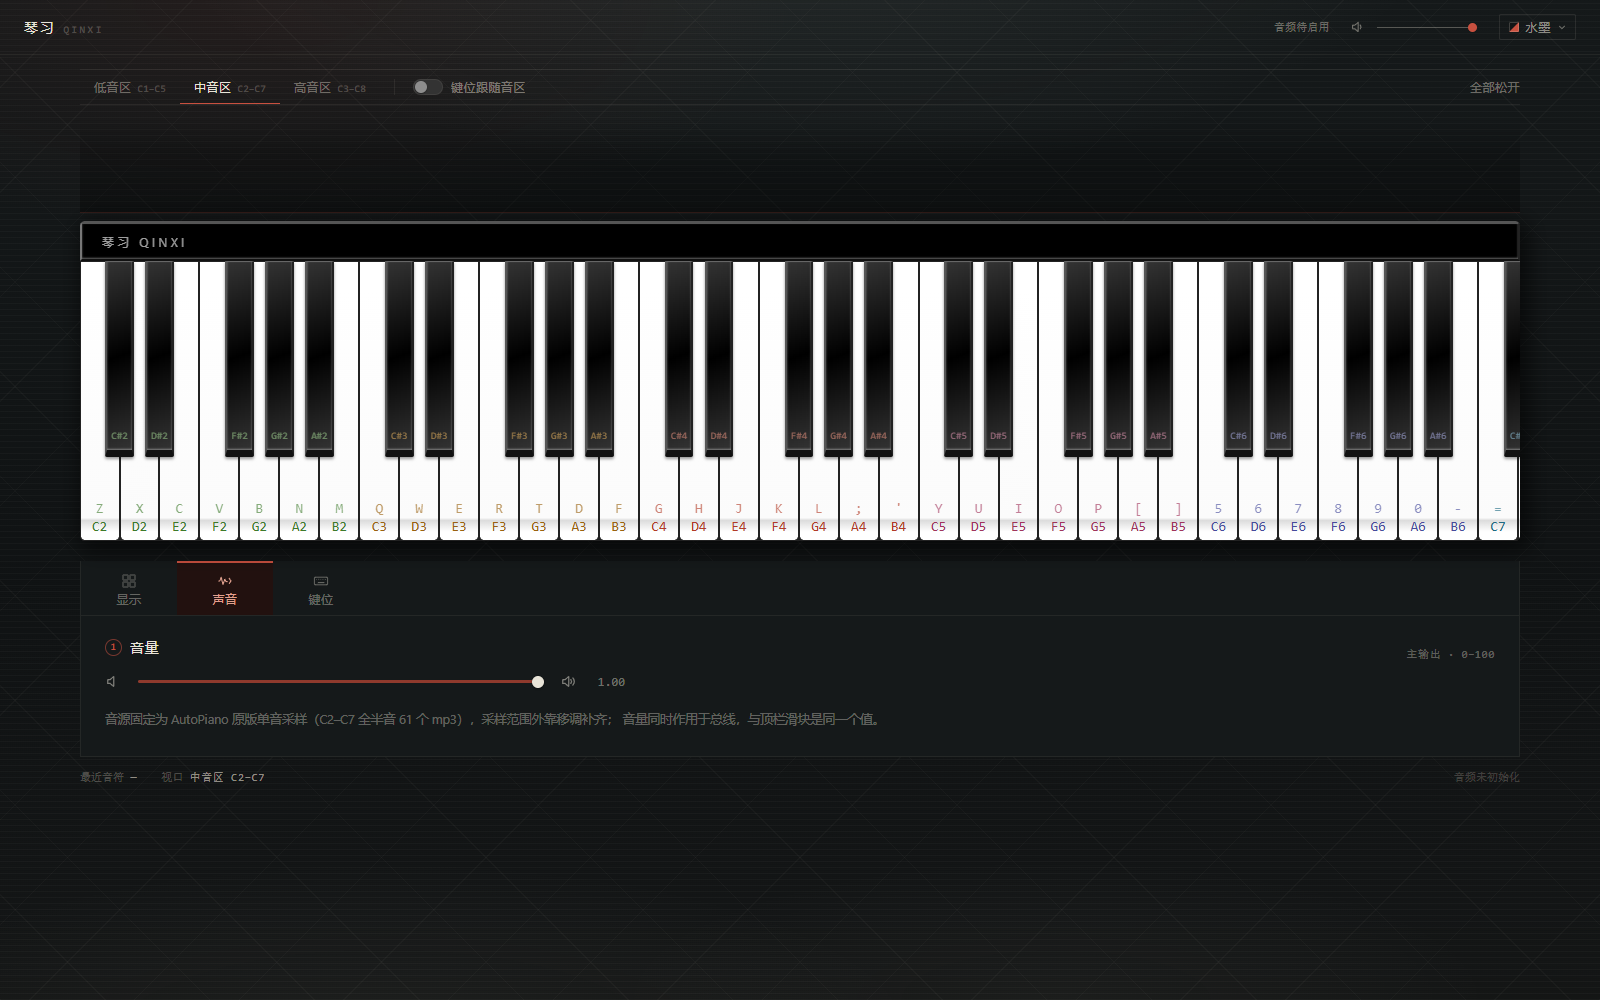
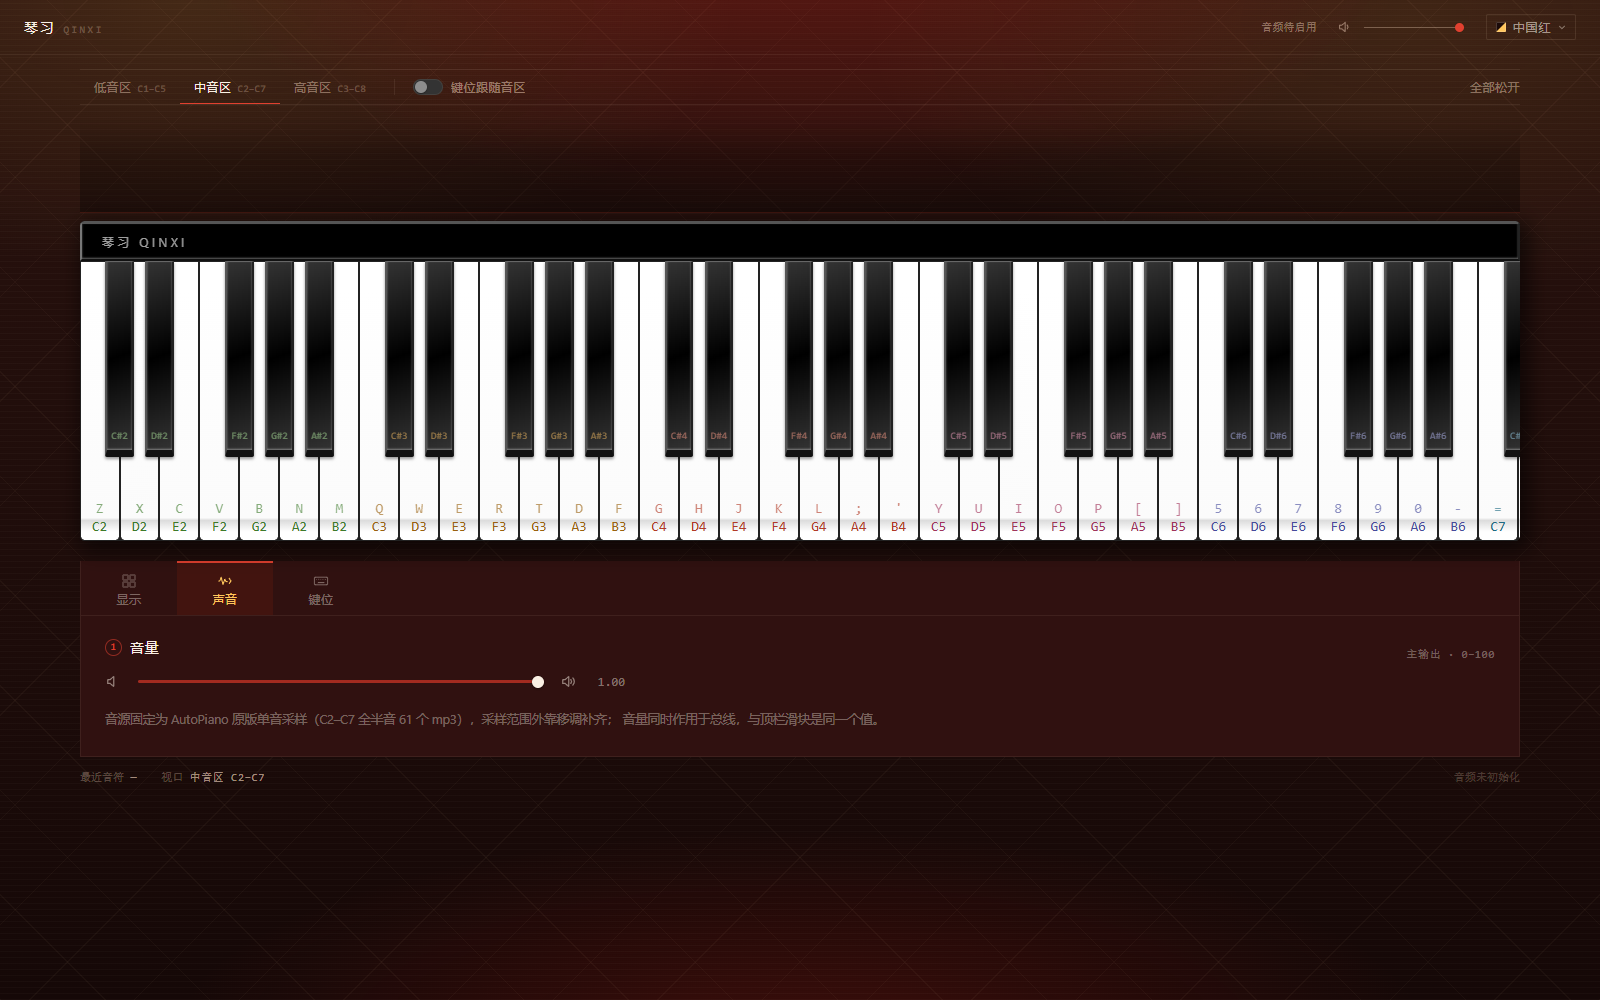
feat: 中国风改为红金喜庆（ink → china）
- 原名「水墨」的墨底朱砂不够喜庆，按反馈改成深红底 + 金饰：
  底色 #220c0a、强调红 #e0402f、选中文字金 #ffc65c
- 背景层次：顶部红晕 + 左右金雾 + 45° 金线窗棂 + 宣纸纤维 + 底部灯影
- 主题 id 改为 china、名称「中国红」、latin VERMILION，菜单与 README 同步
- 旧 id `ink` 不再存在，读到会安静回落到默认主题（已实测）

diff --git a/src/theme/themes.ts b/src/theme/themes.ts
@@ -155,35 +155,35 @@ export const THEMES: readonly Theme[] = [
     },
   },
   {
-    id: 'ink',
-    name: '水墨',
-    latin: 'INK',
-    hint: '墨底 · 朱砂宣纸纹',
-    swatch: ['#121516', '#c8503f'],
+    id: 'china',
+    name: '中国红',
+    latin: 'VERMILION',
+    hint: '红底金饰 · 窗棂与灯影',
+    swatch: ['#1b0b0a', '#ffc65c'],
     tokens: {
-      bg: '#121516',
-      bgDeep: '#0b0d0e',
-      surface: '#15191a',
-      surface2: '#1a1f20',
-      surfaceHover: '#1f2526',
-      surfaceDim: '#111415',
-      surfaceActive: '#2a1512',
-      surfaceTab: '#22110f',
-      inkRgb: '232, 228, 216',
-      wRgb: '226, 220, 205',
-      accent: '#c8503f',
-      accentRgb: '200, 80, 63',
-      accentStrong: '#e0a08e',
-      accentDim: '#8f3a2d',
-      danger: '#7a2a1f',
-      dangerRgb: '214, 104, 74',
-      dangerStrong: '#e9a892',
+      bg: '#220c0a',
+      bgDeep: '#160806',
+      surface: '#301110',
+      surface2: '#3a1512',
+      surfaceHover: '#471a16',
+      surfaceDim: '#280d0c',
+      surfaceActive: '#521714',
+      surfaceTab: '#42140f',
+      inkRgb: '250, 240, 228',
+      wRgb: '255, 224, 200',
+      accent: '#e0402f',
+      accentRgb: '224, 64, 47',
+      accentStrong: '#ffc65c',
+      accentDim: '#a32b20',
+      danger: '#7a1f14',
+      dangerRgb: '255, 138, 110',
+      dangerStrong: '#ffb9a2',
       backdrop:
-        'radial-gradient(1100px 520px at 50% -14%, rgba(214, 228, 220, 0.1), rgba(214, 228, 220, 0) 62%), radial-gradient(780px 340px at 16% 0%, rgba(200, 80, 63, 0.08), rgba(200, 80, 63, 0) 70%), repeating-linear-gradient(45deg, rgba(226, 220, 205, 0.032) 0 1px, rgba(226, 220, 205, 0) 1px 74px), repeating-linear-gradient(-45deg, rgba(226, 220, 205, 0.032) 0 1px, rgba(226, 220, 205, 0) 1px 74px), repeating-linear-gradient(0deg, rgba(226, 220, 205, 0.03) 0 1px, rgba(226, 220, 205, 0) 1px 6px), radial-gradient(780px 260px at 24% 104%, rgba(226, 220, 205, 0.05), rgba(226, 220, 205, 0) 70%), radial-gradient(620px 200px at 66% 100%, rgba(226, 220, 205, 0.04), rgba(226, 220, 205, 0) 72%), linear-gradient(180deg, rgba(21, 25, 26, 0) 56%, rgba(226, 220, 205, 0.035) 100%), linear-gradient(180deg, #15191a, #0c0e0f)',
-      glow: 'none',
-      vizTopRgb: '246, 226, 206',
-      vizMidRgb: '200, 104, 82',
-      vizBottomRgb: '86, 40, 32',
+        'radial-gradient(1000px 520px at 50% -12%, rgba(214, 40, 30, 0.36), rgba(214, 40, 30, 0) 64%), radial-gradient(760px 380px at 12% 0%, rgba(230, 179, 74, 0.14), rgba(230, 179, 74, 0) 72%), radial-gradient(760px 380px at 88% 2%, rgba(230, 179, 74, 0.12), rgba(230, 179, 74, 0) 72%), repeating-linear-gradient(45deg, rgba(255, 214, 160, 0.035) 0 1px, rgba(255, 214, 160, 0) 1px 74px), repeating-linear-gradient(-45deg, rgba(255, 214, 160, 0.035) 0 1px, rgba(255, 214, 160, 0) 1px 74px), repeating-linear-gradient(0deg, rgba(255, 224, 200, 0.022) 0 1px, rgba(255, 224, 200, 0) 1px 6px), radial-gradient(900px 300px at 50% 104%, rgba(200, 32, 22, 0.22), rgba(200, 32, 22, 0) 70%), linear-gradient(180deg, #2a120e, #150807)',
+      glow: '0 0 14px rgba(224, 64, 47, 0.38)',
+      vizTopRgb: '255, 226, 160',
+      vizMidRgb: '232, 92, 62',
+      vizBottomRgb: '110, 20, 16',
     },
   },
 ];

diff --git a/tests/themes.test.ts b/tests/themes.test.ts
@@ -138,19 +138,19 @@ describe('主题应用与持久化', () => {
 
   it('保存后能读回；存了不认识的 id 则回落默认', () => {
     vi.stubGlobal('localStorage', fakeStorage());
-    saveThemeId('ink');
-    expect(loadThemeId()).toBe('ink');
+    saveThemeId('china');
+    expect(loadThemeId()).toBe('china');
     localStorage.setItem(THEME_STORAGE_KEY, 'nope');
     expect(loadThemeId()).toBe(DEFAULT_THEME_ID);
   });
 
   it('setTheme 切换单例、落盘并生效；同名重复调用是空操作', () => {
     vi.stubGlobal('localStorage', fakeStorage());
-    setTheme('ink');
-    expect(themeId.value).toBe('ink');
-    expect(localStorage.getItem(THEME_STORAGE_KEY)).toBe('ink');
-    expect(() => setTheme('ink')).not.toThrow();
+    setTheme('china');
+    expect(themeId.value).toBe('china');
+    expect(localStorage.getItem(THEME_STORAGE_KEY)).toBe('china');
+    expect(() => setTheme('china')).not.toThrow();
     setTheme('not-a-theme');
-    expect(themeId.value).toBe('ink');
+    expect(themeId.value).toBe('china');
   });
 });

diff --git a/README.md b/README.md
@@ -10,7 +10,7 @@
 - 深色界面，尺寸/配色严格对齐 AutoPiano：黑漆顶盖、`.wkey` / `.bkey` 的渐变色与边框均取自其源码
 - 钢琴上方是**音符频谱**：按下即跳出柱子（含泛音），松手按指数衰减
 - 钢琴下方是**三页签控制台**：显示（键面标注）、声音（音量）、键位（C 大调布局 + 自定义 / 空置 + 映射图）
-- 三套**外观主题**（舞台 / 赛博 / 水墨），右上角下拉切换并记住选择；只换背景与外壳，琴体不变
+- 三套**外观主题**（舞台 / 赛博 / 中国红），右上角下拉切换并记住选择；只换背景与外壳，琴体不变
 
 > 参考项目：[AutoPiano 自由钢琴](https://www.autopiano.cn/)（[Wscats/piano](https://github.com/Wscats/piano)）。
 > 本仓库仅参考其 **CSS 钢琴布局思路** 与 **社区键盘谱的键位映射约定**，代码用 Vue 3 + TypeScript 全部重写，
@@ -126,7 +126,7 @@ docs/screenshots/  界面截图（PR 用）
 | --- | --- | --- | --- |
 | 舞台 `stage` | `#1a1a1a` | 暖木 `#cfa46a` | 顶部一束暖光（默认，与 AutoPiano 原站一致） |
 | 赛博 `cyber` | `#06070d` | 霓虹青 `#38e8ff` | 46px 网格 + 3px 扫描线 + 青/品红/紫三处光斑 |
-| 水墨 `ink` | `#121516` | 朱砂 `#c8503f` | 45° 菱格窗棂 + 6px 宣纸纤维 + 底部薄雾与远山 |
+| 中国红 `china` | `#220c0a` | 红 `#e0402f` + 金 `#ffc65c` | 45° 金线窗棂 + 宣纸纤维 + 顶部红晕与底部灯影 |
 
 **只换壳，不换琴**：`PianoKeyboard.vue` 里的顶盖黑漆、黑白琴键渐变、键床 `#222` 全是硬编码的 AutoPiano 原值，
 不吃主题变量；主题只管页面底色、顶栏、控制栏、控制台面板、面板内控件、以及音符柱的三段渐变。
@@ -143,9 +143,9 @@ docs/screenshots/  界面截图（PR 用）
 
 加一套新主题：往 `THEMES` 里加一个对象（字段一个都不能少），再同步 `style.css` 的 `:root`，不用动任何组件。
 
-| 舞台 | 赛博 | 水墨 |
+| 舞台 | 赛博 | 中国红 |
 | --- | --- | --- |
-| ![舞台](docs/screenshots/theme-stage.png) | ![赛博](docs/screenshots/theme-cyber.png) | ![水墨](docs/screenshots/theme-ink.png) |
+| ![舞台](docs/screenshots/theme-stage.png) | ![赛博](docs/screenshots/theme-cyber.png) | ![中国红](docs/screenshots/theme-china.png) |
 
 ## 音符频谱（钢琴上方）
 
